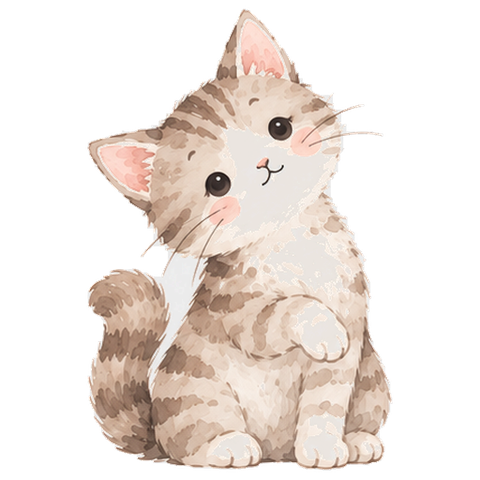
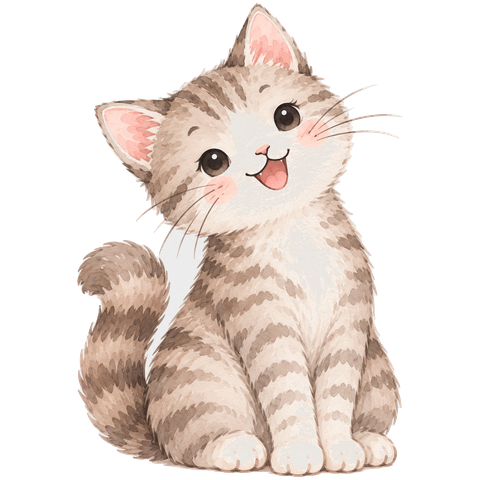
Первый набор мимики/роста для кота: малыш/взрослый × весёлый/грустный
Добавил систему вариантов иллюстраций по виду: если для стадии+
настроения есть готовый рисунок — показываем его вместо базовой
картинки + эмодзи-бейджа. Кот — первый вид с полным набором (4
рисунка), остальные пока используют одну картинку, как раньше.
Обновил иконку приложения новой версией кота.

Changed region(s): [[0.1562, 0.0, 0.8438, 1.0]]

diff --git a/js/species-data.js b/js/species-data.js
@@ -1,12 +1,18 @@
-// Every species shares one static watercolor illustration (assets/animals/<id>.png).
-// Mood/stage/sickness are communicated with small badge overlays + filters instead of
-// redrawn art, since there's a single image per animal rather than per-mood frames.
+// Most species share one static watercolor illustration (assets/animals/<id>.png)
+// across every mood/stage, communicated instead with small badge overlays + filters.
+// A species can opt into real per-stage/per-mood art via `variants` — any combination
+// not listed there just falls back to the base <id>.png (see speciesImage below).
 
 // Only one species is free — everything else, including the deer, has to be earned.
 export const STARTER_SPECIES = ['cat'];
 
 export const SPECIES = [
-  { id: 'cat', name: 'Котёнок', emoji: '🐱', category: 'Лес', cost: 0 },
+  { id: 'cat', name: 'Котёнок', emoji: '🐱', category: 'Лес', cost: 0, variants: {
+    'baby-happy': 'cat-baby.png',
+    'baby-sad': 'cat-baby-sad.png',
+    'adult-happy': 'cat.png',
+    'adult-sad': 'cat-sad.png',
+  } },
 
   { id: 'dog', name: 'Щенок', emoji: '🐶', category: 'Лес', cost: 100 },
   { id: 'rabbit', name: 'Зайка', emoji: '🐰', category: 'Лес', cost: 100 },
@@ -37,6 +43,15 @@ export function getSpecies(id) {
   return SPECIES.find(s => s.id === id) || SPECIES[0];
 }
 
-export function speciesImage(id) {
+// stage: 'baby' | 'teen' | 'adult' (teen borrows the adult art — no separate frame for it).
+// mood: any of the app's mood bands ('happy' | 'neutral' | 'sad' | 'cry' | 'starving').
+export function speciesImage(id, { stage, mood } = {}) {
+  const sp = getSpecies(id);
+  if (sp.variants) {
+    const stageKey = stage === 'baby' ? 'baby' : 'adult';
+    const moodKey = (mood === 'happy' || mood === 'neutral' || !mood) ? 'happy' : 'sad';
+    const file = sp.variants[`${stageKey}-${moodKey}`];
+    if (file) return `assets/animals/${file}`;
+  }
   return `assets/animals/${id}.png`;
 }

diff --git a/js/pet-render.js b/js/pet-render.js
@@ -32,12 +32,17 @@ export function renderPet(host, { stage, mood, species, sick }) {
   if (mood === 'cry' || mood === 'starving') filters.push('saturate(0.75)', 'brightness(0.92)');
   const filterStyle = filters.length ? `style="filter:${filters.join(' ')}"` : '';
 
-  const moodBadge = !sick && MOOD_BADGE[mood] ? `<span class="pet-mood-badge">${MOOD_BADGE[mood]}</span>` : '';
+  // Species with real drawn mood variants don't need the emoji badge on top —
+  // only fall back to it when the art itself can't show the mood (happy/sad only, so far).
+  const stageKey = stage === 'baby' ? 'baby' : 'adult';
+  const moodKey = (mood === 'happy' || mood === 'neutral') ? 'happy' : 'sad';
+  const hasDrawnMood = !!(sp.variants && sp.variants[`${stageKey}-${moodKey}`]);
+  const moodBadge = !sick && !hasDrawnMood && MOOD_BADGE[mood] ? `<span class="pet-mood-badge">${MOOD_BADGE[mood]}</span>` : '';
   const stageBadge = stage === 'adult' ? '<span class="pet-badge">✨</span>' : '';
 
   host.innerHTML = `
     <div class="pet-wrap ${sick ? 'sick' : ''}">
-      <img class="pet-photo" src="${speciesImage(sp.id)}" alt="${sp.name}" ${filterStyle} />
+      <img class="pet-photo" src="${speciesImage(sp.id, { stage, mood })}" alt="${sp.name}" ${filterStyle} />
       ${stageBadge}
       ${moodBadge}
       ${sick ? '<span class="pet-sick-badge">🤒</span>' : ''}

diff --git a/sw.js b/sw.js
@@ -1,6 +1,7 @@
-const CACHE_NAME = 'buddy-cache-v12';
+const CACHE_NAME = 'buddy-cache-v13';
 const ANIMAL_IDS = [
-  'cat', 'dog', 'rabbit', 'sheep', 'fox', 'deer', 'cow', 'horse',
+  'cat', 'cat-sad', 'cat-baby', 'cat-baby-sad',
+  'dog', 'rabbit', 'sheep', 'fox', 'deer', 'cow', 'horse',
   'owl', 'penguin', 'seal', 'polarbear',
   'seahorse', 'octopus', 'turtle', 'shark', 'orca',
   'parrot', 'toucan', 'flamingo', 'dolphin',
